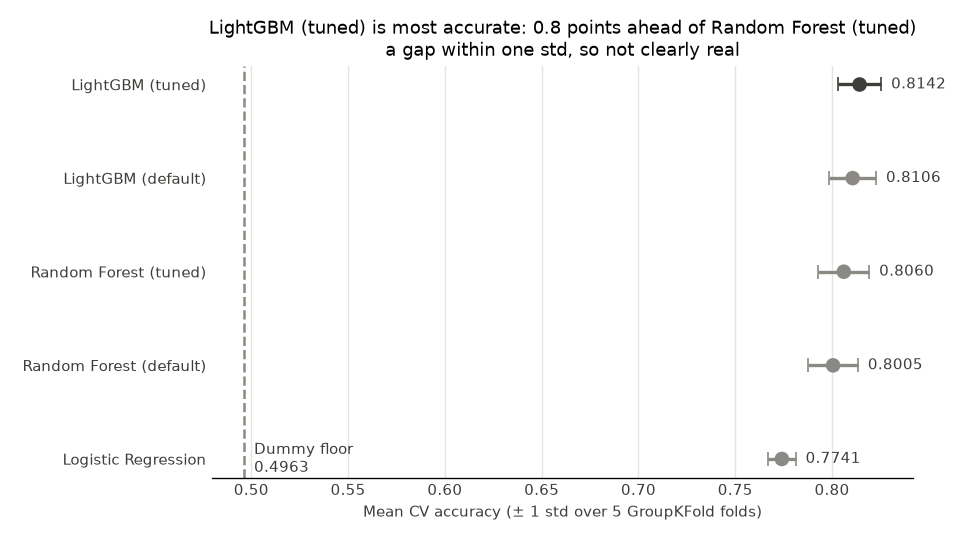
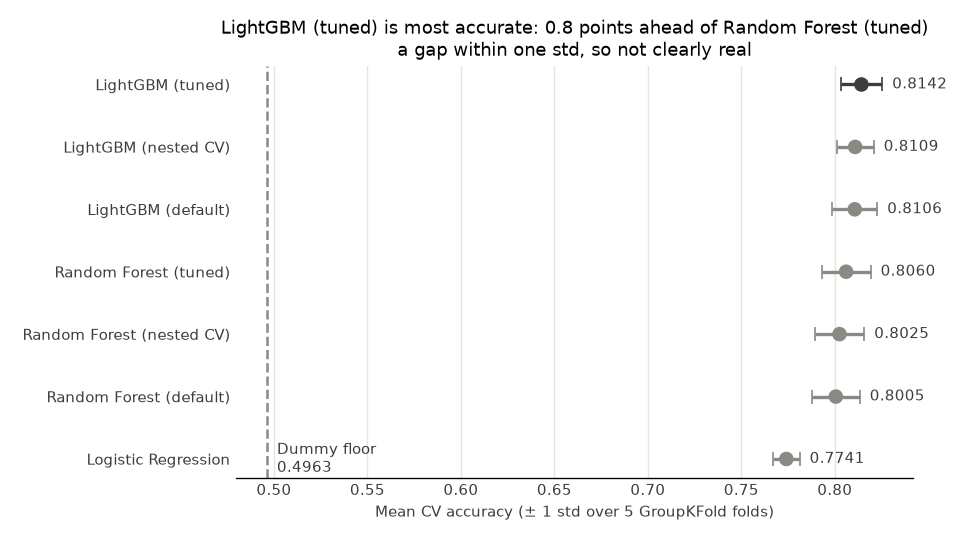
feat: add nested cross-validation for tuned models (closes #16)
- 05b_nested_cv.py: for each shared outer fold, re-runs 04/05's exact
  random search (same space, 30 settings, seed) on the other folds with
  inner folds grouped by travel group, then scores the refit on the unseen
  fold; logged with evaluate() as random_forest_nested / lightgbm_nested
- result: LightGBM 0.8109 +/- 0.0099 (tuned 0.8142, 0.3 pts optimistic),
  Random Forest 0.8025 +/- 0.0133 (tuned 0.8060, 0.4 pts); ranking holds
- 06_compare.py: nested rows shown in table and chart 12 but never as the
  runner-up or in chart 13; conclusion reports the optimism gap
- reports and CLAUDE.md structure updated; submission.csv unchanged

diff --git a/05b_nested_cv.py b/05b_nested_cv.py
@@ -1,0 +1,141 @@
+"""Nested cross-validation: an unbiased score for the tuned models (Role 1, issue #16).
+
+Why: 04 and 05 pick the best of 30 settings on the 5 shared folds and then
+score that pick on the *same* folds. The winner is partly lucky on those
+folds, so its score is slightly optimistic (a best-of-30 pick).
+
+Nested CV removes that luck. For each of the 5 outer folds:
+  1. run the *same* random search (same space, same 30 settings, same seed)
+     on the other 4 folds only, with inner folds grouped by travel group;
+  2. refit the best setting on those 4 folds;
+  3. score it on the outer fold, which the search never saw.
+The mean over the outer folds is an honest estimate of "tune, then predict".
+
+Logged with the shared evaluate() as random_forest_nested / lightgbm_nested,
+on the same outer get_cv() folds as every other model. The search spaces are
+imported unchanged from 04_random_forest.py and 05_lightgbm.py.
+
+Cost: 5 outer x 30 settings x 5 inner folds = 750 fits per model, about 5x
+the original tuning, so this script is slow (several minutes).
+
+Run from the project folder:  python 05b_nested_cv.py
+Self-test:                    python 05b_nested_cv.py --self-test
+"""
+import importlib
+import sys
+
+import pandas as pd
+from sklearn.base import BaseEstimator, ClassifierMixin, clone
+from sklearn.model_selection import RandomizedSearchCV
+
+from src.config import SEED, TARGET, TRAIN_PATH
+from src.evaluation import RESULTS_PATH, evaluate, get_cv, get_groups
+from src.features import add_features
+
+OWNER = "Role 1"
+# Model scripts whose search is repeated inside each outer fold.
+MODELS = {"random_forest": "04_random_forest", "lightgbm": "05_lightgbm"}
+
+
+class GroupedSearch(ClassifierMixin, BaseEstimator):
+    """A RandomizedSearchCV that evaluate() can treat like any pipeline.
+
+    cross_validate() only passes X and y to fit(), not the groups, so the
+    travel groups are read back from PassengerId in the rows it is given.
+    That keeps the inner folds grouped too: no travel group is split
+    between inner training and inner validation.
+    """
+
+    def __init__(self, pipeline, param_space, n_iter, n_jobs=None):
+        self.pipeline = pipeline
+        self.param_space = param_space
+        self.n_iter = n_iter
+        self.n_jobs = n_jobs
+
+    def fit(self, X, y):
+        self.search_ = RandomizedSearchCV(
+            clone(self.pipeline), self.param_space, n_iter=self.n_iter,
+            scoring="accuracy", cv=get_cv(), random_state=SEED, n_jobs=self.n_jobs,
+            refit=True)  # refit the best setting on this outer training part only
+        self.search_.fit(X, y, groups=get_groups(X))
+        self.classes_ = self.search_.classes_
+        return self
+
+    def predict(self, X):
+        return self.search_.predict(X)
+
+    def predict_proba(self, X):  # needed for ROC-AUC
+        return self.search_.predict_proba(X)
+
+
+def main():
+    df = pd.read_csv(TRAIN_PATH)
+    X, y, groups = add_features(df).drop(columns=[TARGET]), df[TARGET], get_groups(df)
+    logged = pd.read_csv(RESULTS_PATH).set_index("model")
+    # Check before the slow part, not after many minutes of fitting.
+    missing = [n for n in MODELS if n not in logged.index]
+    if missing:
+        sys.exit(f"No tuned row for {missing} in results.csv: run 04/05 first.")
+
+    for name, script in MODELS.items():
+        m = importlib.import_module(script)  # reuse the owner's exact search
+        # RF already searches on all cores in 04; keep that, LightGBM as in 05.
+        nested = GroupedSearch(m.make_pipeline(), m.PARAM_SPACE, m.N_ITER,
+                               n_jobs=-1 if name == "random_forest" else None)
+        print(f"\n{name}: nested CV, {m.N_ITER} settings per outer fold ...")
+        res = evaluate(nested, X, y, groups, name=f"{name}_nested", owner=OWNER,
+                       params={"n_iter": m.N_ITER, "outer": "get_cv()", "inner": "get_cv() on outer-train"})
+        drop = logged.loc[name, "accuracy_mean"] - res["accuracy_mean"]
+        print(f"   tuned (same folds) {logged.loc[name, 'accuracy_mean']:.4f} vs nested "
+              f"{res['accuracy_mean']:.4f} ± {res['accuracy_std']:.4f}: "
+              + (f"the best-of-{m.N_ITER} pick was {drop * 100:.1f} points optimistic."
+                 if drop > 0 else f"no optimism from the best-of-{m.N_ITER} pick."))
+
+
+def _self_test():
+    """Nested evaluate() runs end to end on tiny data with grouped inner folds."""
+    import tempfile
+    from pathlib import Path
+
+    import pandas as pd
+    from sklearn.base import clone
+    from sklearn.compose import ColumnTransformer
+    from sklearn.linear_model import LogisticRegression
+    from sklearn.pipeline import Pipeline
+
+    import src.evaluation as ev
+
+    # 40 travel groups x 3 people; x separates the classes, so a tuned
+    # model should beat chance on every outer fold.
+    ids = [f"{g:04d}_{p:02d}" for g in range(1, 41) for p in range(1, 4)]
+    y = pd.Series([g % 2 == 0 for g in range(1, 41) for _ in range(3)])
+    X = pd.DataFrame({"PassengerId": ids, "x": y.astype(float) + [0.1 * (i % 5) for i in range(120)]})
+    pipe = Pipeline([("prep", ColumnTransformer([("x", "passthrough", ["x"])])),
+                     ("model", LogisticRegression())])
+    nested = GroupedSearch(pipe, {"model__C": [0.1, 1.0]}, n_iter=2)
+
+    # cross_validate() clones the estimator for every outer fold.
+    assert clone(nested).get_params()["n_iter"] == 2
+
+    with tempfile.TemporaryDirectory() as tmp:
+        ev.RESULTS_PATH = Path(tmp) / "results.csv"
+        res = ev.evaluate(nested, X, y, ev.get_groups(X), name="selftest_nested", owner="selftest")
+        logged = pd.read_csv(ev.RESULTS_PATH)
+    assert logged["model"].tolist() == ["selftest_nested"]
+    assert res["accuracy_mean"] > 0.9
+
+    # The inner search reads travel groups from PassengerId; without it,
+    # it must fail instead of silently falling back to ungrouped folds.
+    try:
+        clone(nested).fit(X.drop(columns=["PassengerId"]), y)
+        raise AssertionError("fit without PassengerId was accepted")
+    except KeyError:
+        pass
+    print("Self-test passed: GroupedSearch works inside evaluate().")
+
+
+if __name__ == "__main__":
+    if "--self-test" in sys.argv:
+        _self_test()
+    else:
+        main()

diff --git a/06_compare.py b/06_compare.py
@@ -23,7 +23,9 @@ LABELS = {"dummy_most_frequent": "Dummy (most frequent)",
           "random_forest_default": "Random Forest (default)",
           "random_forest": "Random Forest (tuned)",
           "lightgbm_default": "LightGBM (default)",
-          "lightgbm": "LightGBM (tuned)"}
+          "lightgbm": "LightGBM (tuned)",
+          "random_forest_nested": "Random Forest (nested CV)",
+          "lightgbm_nested": "LightGBM (nested CV)"}
 METRICS = {"precision_mean": "Precision", "recall_mean": "Recall", "f1_mean": "F1"}
 
 
@@ -54,13 +56,23 @@ def _within_std(a, b):
     return a["accuracy_mean"] - b["accuracy_mean"] <= max(a["accuracy_std"], b["accuracy_std"])
 
 
+def _candidates(table):
+    """Models that compete: not the Dummy floor, not nested-CV estimates.
+
+    A nested row (05b_nested_cv.py) re-scores an existing model honestly; it
+    answers "how good is tune-then-predict", not "which model to pick".
+    """
+    m = table["model"]
+    return table[~m.str.startswith("dummy") & ~m.str.endswith("_nested")]
+
+
 def _verdict(table):
     """The winner and its closest rival from a *different* algorithm.
 
     Comparing against its own untuned version would be the wrong question:
     the choice the slides defend is which algorithm, then whether tuning helped.
     """
-    models = table[~table["model"].str.startswith("dummy")]
+    models = _candidates(table)
     best = models.iloc[0]
     rival = models[models["model"].map(_family) != _family(best["model"])].iloc[0]
     return best, rival, best["accuracy_mean"] - rival["accuracy_mean"], _within_std(best, rival)
@@ -87,6 +99,15 @@ def conclusion(table):
                  + ("also within one standard deviation. " if _within_std(best, d)
                     else "more than one standard deviation. "))
 
+    nested = table[table["model"] == f"{best['model']}_nested"]
+    if not nested.empty:
+        n = nested.iloc[0]
+        drop = best["accuracy_mean"] - n["accuracy_mean"]
+        text += (f"Nested CV, which removes the luck of picking the best of many settings, "
+                 f"gives {_label(n['model'])} {n['accuracy_mean']:.4f} ± {n['accuracy_std']:.4f}, "
+                 f"{abs(drop) * 100:.1f} points {'below' if drop > 0 else 'above'} "
+                 "the tuned score: that is the honest estimate for new data. ")
+
     floor = table[table["model"].str.startswith("dummy")]
     others = table[~table["model"].str.startswith("dummy")]
     if not floor.empty and (others["accuracy_mean"] > floor.iloc[0]["accuracy_mean"]).all():
@@ -103,7 +124,7 @@ def plot_accuracy(table, path):
     """Dot + ± std bar per model, Dummy as a dashed floor, winner in dark ink."""
     models = table[~table["model"].str.startswith("dummy")].iloc[::-1]  # best on top
     floor = table[table["model"].str.startswith("dummy")]
-    colors = [INK if m == table.iloc[0]["model"] else NEUTRAL for m in models["model"]]
+    colors = [INK if m == _verdict(table)[0]["model"] else NEUTRAL for m in models["model"]]
     y = range(len(models))
 
     fig, ax = plt.subplots(figsize=(8, 4.5))
@@ -132,8 +153,8 @@ def plot_accuracy(table, path):
 
 def plot_prf(table, path, top=3):
     """Three small panels (precision | recall | F1) for the top models."""
-    models = table[~table["model"].str.startswith("dummy")].head(top).iloc[::-1]
-    colors = [INK if m == table.iloc[0]["model"] else NEUTRAL for m in models["model"]]
+    models = _candidates(table).head(top).iloc[::-1]
+    colors = [INK if m == _verdict(table)[0]["model"] else NEUTRAL for m in models["model"]]
     lo = models[list(METRICS)].min().min() - 0.02
     hi = models[list(METRICS)].max().max() + 0.02
 
@@ -216,6 +237,17 @@ def _self_test():
         model="lgbm_default", accuracy_mean=0.805)], ignore_index=True).pipe(latest_per_model))
     text = conclusion(fam)
     assert "ahead of rf " in text and "over lgbm_default" in text
+
+    # Nested-CV rows are honest estimates, not rival models: they never
+    # become the runner-up, and the conclusion reports the optimism gap.
+    nested = comparison_table(pd.concat([rows, rows.iloc[[2]].assign(
+        model="lgbm_nested", accuracy_mean=0.805)], ignore_index=True).pipe(latest_per_model))
+    text = conclusion(nested)
+    assert "ahead of rf " in text and "lgbm_nested" in text and "0.5 points below" in text
+    # Within fold noise a nested score can also come out higher.
+    higher = comparison_table(pd.concat([rows, rows.iloc[[2]].assign(
+        model="lgbm_nested", accuracy_mean=0.812)], ignore_index=True).pipe(latest_per_model))
+    assert "0.2 points above" in conclusion(higher)
 
     # "Every model beats the Dummy" is only claimed when it is true.
     assert "Every model beats" in conclusion(table)

diff --git a/reports/role1_lead.md b/reports/role1_lead.md
@@ -1,5 +1,5 @@
 # Role 1 – Lead / integrator (Pun)
-Last updated: 2026-10-31 · Status: Done
+Last updated: 2026-11-15 · Status: Done
 
 ## 1. Slide summary
 - **Final model: LightGBM**, CV accuracy **0.8142 ± 0.0112** (ROC-AUC 0.9025), retrained on all 8,693 rows → `submission.csv` (4,277 rows).
@@ -9,6 +9,8 @@ Last updated: 2026-10-31 · Status: Done
 - Every model is scored by **one function**, `evaluate()`: accuracy, precision, recall, F1, ROC-AUC (mean ± std) and fit time, logged to `results/results.csv`.
 - Preprocessing is refitted **inside each fold**, so validation rows never influence training.
 - One config file (`src/config.py`) fixes paths, target, `SEED = 42` and `N_SPLITS = 5` for the whole team.
+
+- **Nested CV (issue #16):** the honest score for tuned LightGBM is **0.8109 ± 0.0099** (0.3 points below the tuned 0.8142); Random Forest 0.8025 ± 0.0133 (0.4 below). LightGBM still leads, and the ranking does not change.
 
 ## 2. What I did
 1. Created folders `src/`, `plots/`, `results/`, `reports/`, `slides/`, `notes/` and `.gitignore`.
@@ -22,6 +24,8 @@ Last updated: 2026-10-31 · Status: Done
 9. Ran `python 07_final_model.py` → LightGBM chosen, `submission.csv` written and checked against Kaggle's `sample_submission.csv`.
 10. Clean run: fresh checkout, all outputs deleted, 01→07 run in order → all exit 0, results identical to the committed ones.
 11. Final clean run on 2026-10-31 after `06_compare.py` was merged: all 7 scripts exit 0; `results.csv` metrics, both `best_params` files, `model_comparison.csv`, `eda_findings.txt`, all 13 plots and `submission.csv` (byte for byte) identical to `main`.
+
+12. `05b_nested_cv.py` (issue #16): for each of the 5 shared outer folds, re-runs 04/05's exact random search (same space, 30 settings, seed) on the other 4 folds with inner folds grouped by travel group, refits the best setting there and scores it on the unseen outer fold. Logged with `evaluate()` as `random_forest_nested` / `lightgbm_nested`. `06_compare.py` shows these rows but never treats them as rival models.
 
 ## 3. Key decisions and why
 | Decision | Why | Evidence (number, chart or source) |
@@ -39,6 +43,10 @@ Last updated: 2026-10-31 · Status: Done
 | `fit_time_s` = mean fit time per fold | Comparable across models regardless of tuning | `evaluate()` |
 | `evaluate()` also returns train accuracy (not logged) | Roles 3 and 4 need it for the overfitting check | `train_accuracy_mean` in returned dict |
 
+| Nested CV as a separate script, reusing 04/05's search unchanged | Gives an unbiased score without touching Roles 3–4's files; identical search keeps the comparison fair | `05b_nested_cv.py` imports `PARAM_SPACE`, `N_ITER`, `make_pipeline()` |
+| Inner folds grouped by travel group | Same leakage rule as the outer folds; groups read from `PassengerId` of the rows each outer fold hands over | `GroupedSearch.fit()`; review confirmed inner search saw only outer-training rows |
+| Nested rows logged but excluded from the model verdict | They re-score an existing model; they answer "how good is tune-then-predict", not "which model" | `_candidates()` in `06_compare.py` |
+
 ## 4. Results
 - Self-test (synthetic data, 20 groups × 4 people, 75% transported): DummyClassifier accuracy 0.7500 ± 0.0000, ROC-AUC 0.5000 — matches the known answers.
 - Data added: train.csv 8,693 rows × 14 columns, 6,217 travel groups; test.csv 4,277 rows. `Transported` loads as bool, as `evaluate()` requires.
@@ -55,6 +63,17 @@ Last updated: 2026-10-31 · Status: Done
 - Predicted transported share on test: **51.5%** (2,201 True / 2,076 False) vs 50.4% in train → no drift towards one class.
 - Final clean run times: 01 6 s, 02 4 s, 03 5 s, 04 118 s, 05 56 s, 06 2 s, 07 5 s (~196 s total).
 
+**Nested CV vs tuned score** (`python 05b_nested_cv.py`, ~7.5 min; scores in `results/results.csv`):
+
+| Model | Tuned (same folds) | Nested CV (honest) | Optimism | Default (untuned) |
+|---|---|---|---|---|
+| LightGBM | 0.8142 ± 0.0112 | 0.8109 ± 0.0099 | 0.3 points | 0.8106 ± 0.0121 |
+| Random Forest | 0.8060 ± 0.0131 | 0.8025 ± 0.0133 | 0.4 points | 0.8005 ± 0.0128 |
+
+- Nested ROC-AUC: LightGBM 0.9042, Random Forest 0.8944.
+- Nested LightGBM (0.8109) is about the same as default LightGBM (0.8106): once the best-of-30 luck is removed, tuning adds almost nothing.
+- Nested `fit_time_s` (LightGBM 35.75 s, RF 53.24 s per outer fold) includes the whole inner search, so it is not comparable with the other rows.
+
 ## 5. Charts for the slides
 | File in plots/ | One-line caption (the finding) | Suggested slide |
 |---|---|---|
@@ -67,7 +86,7 @@ Last updated: 2026-10-31 · Status: Done
 - Final model chosen only from CV scores on train.csv; test.csv is read after the choice and only passed to `predict()`.
 - Post-merge review of Role 2 (`features.py`, 01–03): `add_features()` is row-wise plus within-file group counts (02 checks it gives identical values on every fold); all learned steps sit in `build_preprocessor()`; EDA confirms **0** travel groups in both train (6,217) and test (3,063).
 - Post-merge review of Roles 3–4 (04, 05): tuning only via `RandomizedSearchCV(cv=get_cv(), groups=...)`, same budget (30 settings) and seed for both; scores from `evaluate()` not `best_score_`; permutation importance on held-out folds; test.csv never read.
-- Known, disclosed limitation: tuned scores are scored on the same folds used for tuning, so they are slightly optimistic (both reports say so). Nested CV would remove this at ~5× the cost.
+- Tuned scores are scored on the same folds used for tuning, so they are slightly optimistic. Nested CV (`05b_nested_cv.py`) measures this: 0.3 points for LightGBM, 0.4 for Random Forest.
 
 ## 7. Problems and how I fixed them
 - lightgbm and matplotlib not installed on lead's machine → installed with pip and pinned; other pins unchanged, self-test still passes.
@@ -86,7 +105,9 @@ Last updated: 2026-10-31 · Status: Done
 | How do you know test.csv didn't influence the model? | It is only read after the model is chosen and fitted, and is only passed to `predict()`. |
 | Why LightGBM? | Highest CV accuracy (0.8142) and about 12× faster to fit than Random Forest (0.17 s vs 2.05 s per fold). Its 0.8-point lead over Random Forest is within one std, so speed backs the choice too. |
 | Why tuned LightGBM, not the default? | Tuning added only 0.4 points (0.8142 vs 0.8106), within one std, so the default would be about as good. `07_final_model.py` only ships tuned models (those with saved best params), and the gap is honest to report as "not clearly real". |
-| Is the tuned score optimistic? | Slightly: the best of 30 settings is scored on the same folds it was picked on. Both models had the same budget and folds; nested CV would fix it. |
+| Is the tuned score optimistic? | Slightly. Nested CV, where each outer fold is scored by a model tuned without it, gives LightGBM 0.8109 vs 0.8142 tuned (0.3 points) and Random Forest 0.8025 vs 0.8060 (0.4 points). |
+| What is nested CV? | Tuning is repeated inside each outer training part, so the fold used for scoring never influenced the choice of settings. It costs about 5× the fits (750 per model). |
+| Does nested CV explain the CV → Kaggle gap? | Only part of it: about 0.3 points of the ~1 point gap. The rest is most likely ordinary sampling difference between our folds and Kaggle's test set; we cannot check that without Kaggle's labels. |
 | Is the pipeline reproducible? | Yes: a clean checkout re-run of 01→07 gave identical scores, parameters, plots and submission. |
 | Why report mean ± std? | Std across folds shows how stable a score is; a small difference within the std is not a real win. |
 
@@ -94,4 +115,5 @@ Last updated: 2026-10-31 · Status: Done
 - `06_compare.py` + comparison chart: joint with Role 5 (Bard), not started.
 - Check the technical slides with Role 5; rehearsal with the whole team.
 - Review follow-ups for owners (low severity, no leakage): **Role 4** – `05_lightgbm.py`:167 prints `≈`, which crashes on cp1252/cp874 consoles (use `~` like 04); report line 88 "cancels out" → "similar for both". **Roles 3 & 4** – add `error_score="raise"` to `RandomizedSearchCV`. **Role 2** – be ready to justify `CHILD_AGE = 13` (chosen from EDA, not the target).
-- Re-run 01→07 only if a script changes again; the last clean run matches `main`.
+- Re-run 01→07 only if a script changes again. `05b_nested_cv.py` is slow (~7.5 min) and only adds analysis rows; it does not change the final model or `submission.csv`.
+- Tell Role 5: slide 10 can now show the nested scores (chart 12 includes them).

diff --git a/reports/role5_presentation.md b/reports/role5_presentation.md
@@ -1,5 +1,5 @@
 # Role 5 – Analysis & presentation (Bard)
-Last updated: 2026-10-31 · Status: In progress
+Last updated: 2026-11-15 · Status: In progress
 
 ## 1. Slide summary
 - Tuned LightGBM has the highest mean CV accuracy: **0.8142 ± 0.0112** (5 GroupKFold folds).
@@ -35,13 +35,17 @@ Copied from the printed output of `python 06_compare.py` (run 2026-10-31); also 
 | Model | Owner | Accuracy (mean ± std) | Precision | Recall | F1 | ROC-AUC | Fit time (s) |
 |---|---|---|---|---|---|---|---|
 | lightgbm (tuned) | Role 4 | 0.8142 ± 0.0112 | 0.8088 | 0.8267 | 0.8176 | 0.9025 | 0.1735 |
+| lightgbm_nested | Role 1 | 0.8109 ± 0.0099 | 0.8056 | 0.8234 | 0.8142 | 0.9042 | 35.7492* |
 | lightgbm_default | Role 4 | 0.8106 ± 0.0121 | 0.8080 | 0.8188 | 0.8132 | 0.9030 | 0.1002 |
 | random_forest (tuned) | Role 3 | 0.8060 ± 0.0131 | 0.8129 | 0.7991 | 0.8057 | 0.8950 | 2.0473 |
+| random_forest_nested | Role 1 | 0.8025 ± 0.0133 | 0.8078 | 0.7979 | 0.8026 | 0.8944 | 53.2444* |
 | random_forest_default | Role 3 | 0.8005 ± 0.0128 | 0.8270 | 0.7638 | 0.7940 | 0.8852 | 1.2509 |
 | logistic_regression | Role 2 | 0.7741 ± 0.0071 | 0.7668 | 0.7922 | 0.7792 | 0.8525 | 0.0448 |
 | dummy_most_frequent | Role 2 | 0.4963 ± 0.0141 | 0.3999 | 0.8000 | 0.5332 | 0.5000 | 0.0025 |
 
-Printed conclusion (verbatim): "LightGBM (tuned) has the highest mean CV accuracy, 0.8142 ± 0.0112, 0.8 points ahead of Random Forest (tuned) (0.8060 ± 0.0131). The gap is within one standard deviation, so the difference may not be meaningful. It fits in 0.17 s per fold against 2.05 s. Tuning adds 0.4 points over LightGBM (default) (0.8106 ± 0.0121), also within one standard deviation. Every model beats the Dummy floor of 0.4963, so they all learned real signal."
+\* Nested rows come from `05b_nested_cv.py` (Role 1, issue #16): an honest re-score of the tuned model, not a separate model. Their fit time includes the whole inner search, so it is not comparable.
+
+Printed conclusion (verbatim): "LightGBM (tuned) has the highest mean CV accuracy, 0.8142 ± 0.0112, 0.8 points ahead of Random Forest (tuned) (0.8060 ± 0.0131). The gap is within one standard deviation, so the difference may not be meaningful. It fits in 0.17 s per fold against 2.05 s. Tuning adds 0.4 points over LightGBM (default) (0.8106 ± 0.0121), also within one standard deviation. Nested CV, which removes the luck of picking the best of many settings, gives LightGBM (nested CV) 0.8109 ± 0.0099, 0.3 points below the tuned score: that is the honest estimate for new data. Every model beats the Dummy floor of 0.4963, so they all learned real signal."
 
 The 0.8- and 0.4-point gaps above are printed by the script. One extra gap for Q&A, by plain subtraction of the printed means: tuning added 0.0055 accuracy to Random Forest (0.8060 vs 0.8005).
 
@@ -82,7 +86,7 @@ What's not done yet and who needs what from me.
 - [ ] Build slides from `reports/`: read reports regularly, ask owners when a section is empty or a number doesn't match `results.csv`
 - [ ] Keep this report up to date: slide plan with source reports, missing content, rehearsal notes (timing, who presents what)
 - [ ] `notes/qa_prep.md`: collect section 8 from every report + likely questions ("Why GroupKFold?", "Why accuracy?", "Why drop Name?", "How did you prevent leakage?", "Why this model?"); make sure every member rehearses them
-- [x] `06_compare.py` (with Role 1): comparison table and chart from `results.csv` (mean ± std across folds) – script, `results/model_comparison.csv` and plots 12–13 done; not yet committed or merged (Pun to review)
+- [x] `06_compare.py` (with Role 1): comparison table and chart from `results.csv` (mean ± std across folds) – script, `results/model_comparison.csv` and plots 12–13 done; merged in PR #13. Nested-CV rows added by Role 1 (issue #16): they show in the table and chart 12 but never as the runner-up or in chart 13
 - [ ] State on slide 10 that tuned LightGBM's lead over LightGBM default (0.4 pts: 0.8142 vs 0.8106) and over Random Forest tuned (0.8142 vs 0.8060) is within one std, so the choice rests on the best mean plus speed, not on a proven difference
 - [ ] Re-run `python 06_compare.py` whenever a model script is re-run, so the table and plots match `results.csv`
 - [x] Teamwork evidence: decided to use the `CLAUDE.md` Status checklist + GitHub PRs instead of a task board and `notes/meetings.md` (see section 3). `CLAUDE.md` updated to match (Pun to review the PR).

diff --git a/CLAUDE.md b/CLAUDE.md
@@ -41,6 +41,7 @@ DS Model Training/
 ├── 03_baseline.py            # Role 2 – Dummy + Logistic Regression
 ├── 04_random_forest.py       # Role 3 – Random Forest + tuning
 ├── 05_lightgbm.py            # Role 4 – LightGBM + tuning
+├── 05b_nested_cv.py          # Role 1 – nested CV: unbiased score for the tuned models (slow, issue #16)
 ├── 06_compare.py             # Role 5 (with Role 1) – comparison table and charts from results.csv
 ├── 07_final_model.py         # Role 1 – retrain the best model on all of train.csv, write submission.csv
 ├── plots/                    # all charts, numbered NN_name.png (used in slides)
